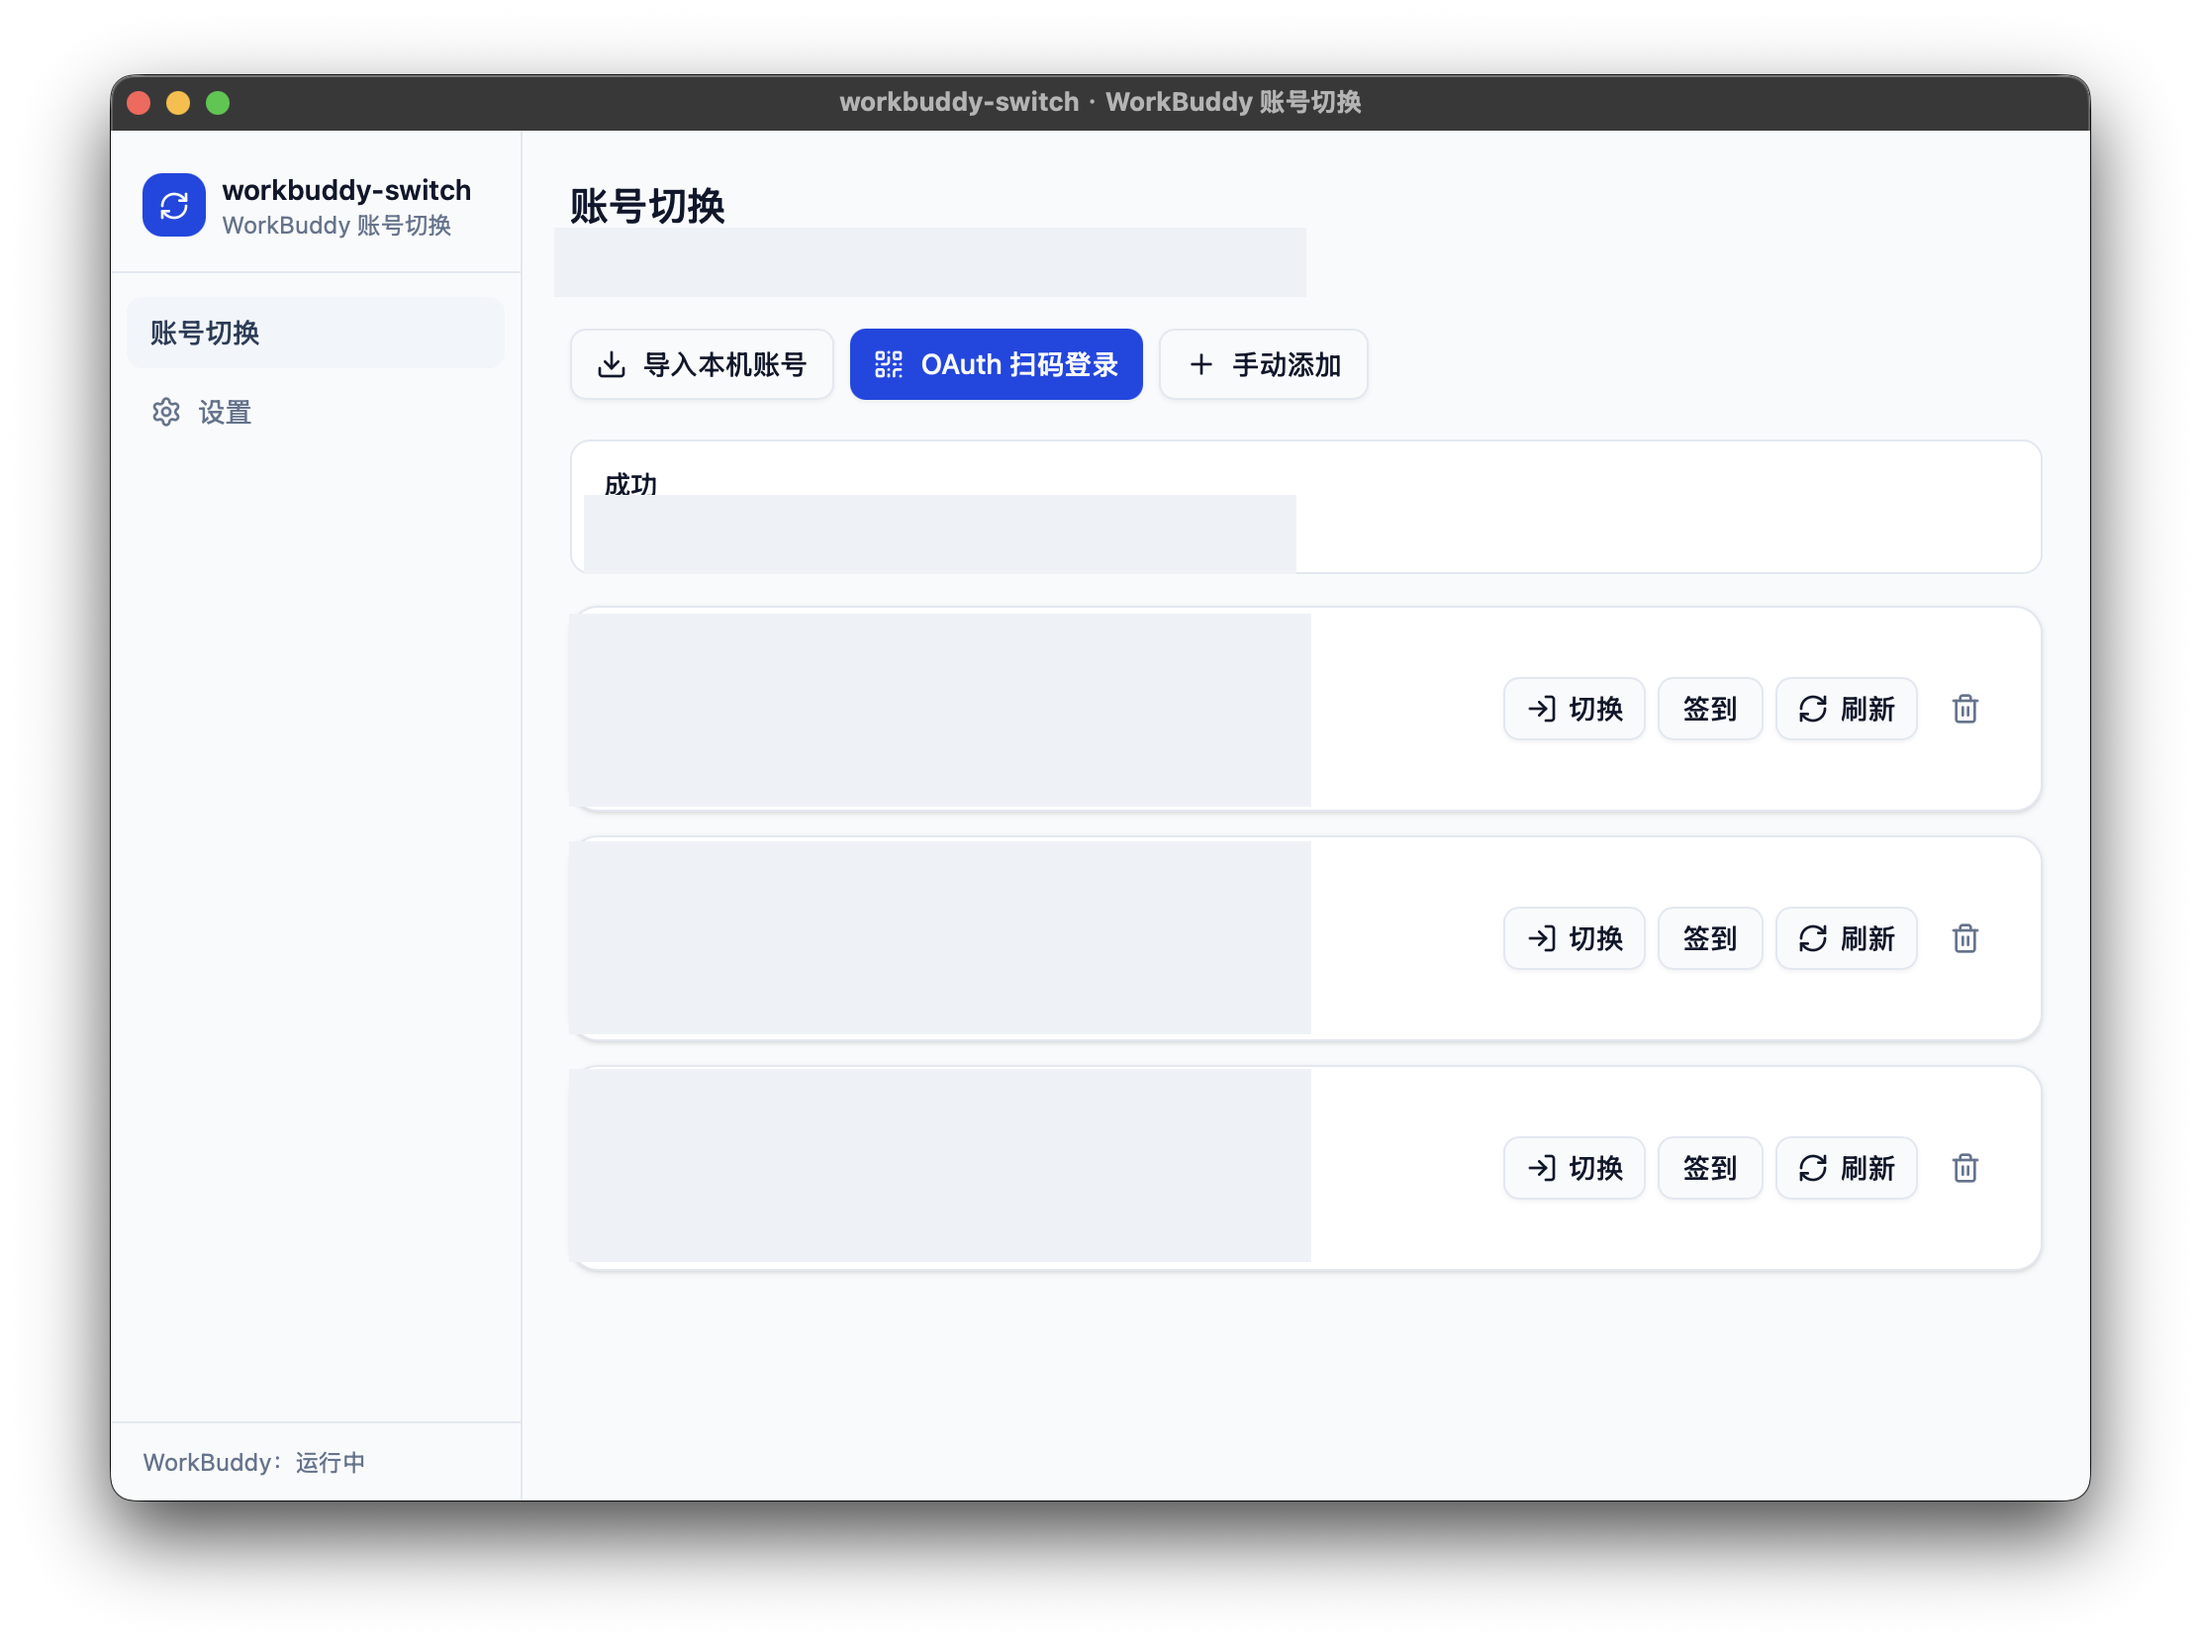
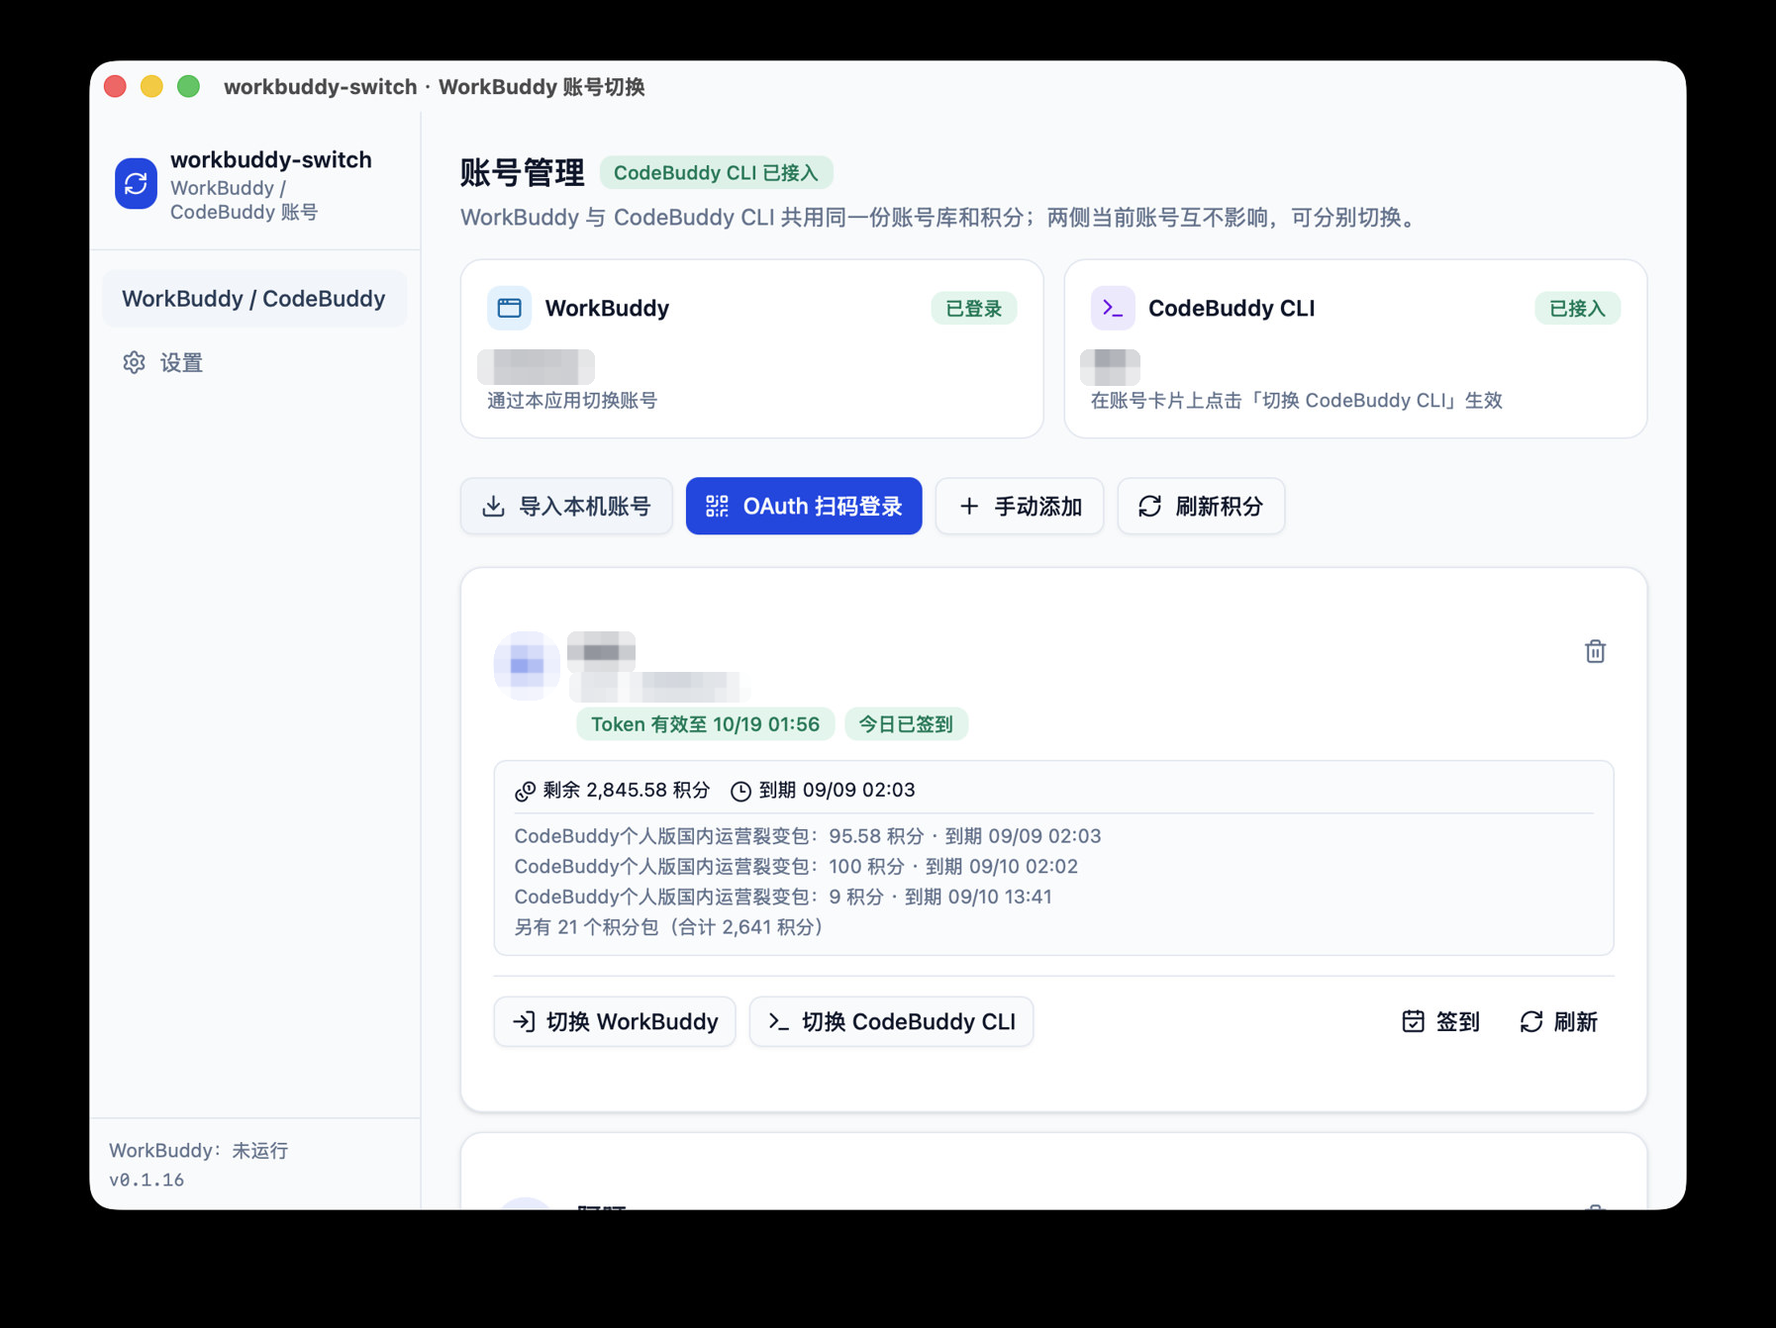
docs: 更新 README 账号页与自动轮换截图并脱敏
替换为当前界面截图，对账号名、头像、UID 做马赛克打码，设置页截图改为自动轮换面板。

diff --git a/README.md b/README.md
@@ -73,12 +73,12 @@ webui 界面与桌面 App 一致：账号管理、切换、会话复制、自动
   <img src="docs/images/workbuddy-switch-accounts-redacted.png" alt="账号切换页面（账号信息已脱敏）" width="1000" />
 </p>
 
-### 设置
+### 自动轮换
 
-设置页集中管理 macOS 权限检测、自动签到、Token 保活和自动更新。
+设置页可开启 CodeBuddy CLI 自动轮换：按间隔检查并把 CLI 切到积分最紧迫的账号。
 
 <p align="center">
-  <img src="docs/images/workbuddy-switch-settings.png" alt="设置页面" width="1000" />
+  <img src="docs/images/workbuddy-switch-rotate-redacted.png" alt="自动轮换设置（账号信息已脱敏）" width="1000" />
 </p>
 
 > 文档截图中的账号名称、头像首字、UID、当前登录名和状态信息均已做脱敏处理。
